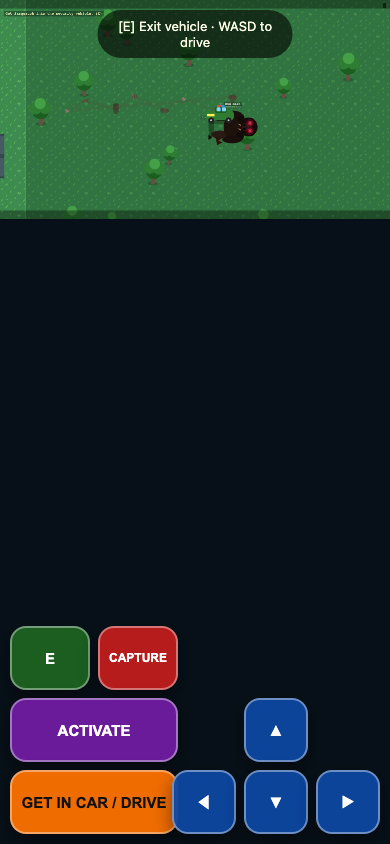
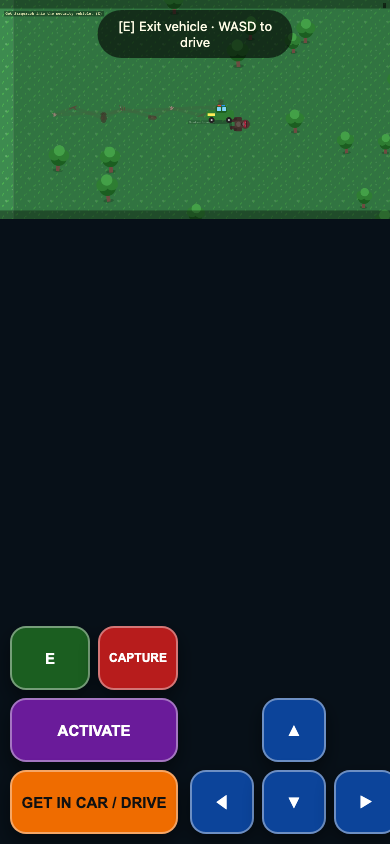
fix(v1.0.6): player-sized red-eye Sasquatch + capture always knocks him down

diff --git a/src/game/scenes/BootScene.ts b/src/game/scenes/BootScene.ts
@@ -127,98 +127,77 @@ export class BootScene extends Phaser.Scene {
   }
 
   private makeSasquatch(): void {
-    // Scary bigfoot walk sheet: 4 frames, 96x110 each
-    const fw = 96;
-    const fh = 110;
+    // Player-sized (64x64) walk sheet — 4 frames — cute/classic bigfoot + RED eyes
+    const fw = 64;
+    const fh = 64;
     const frames = 4;
     const sheet = this.make.graphics({ x: 0, y: 0 });
 
     const drawFrame = (g: Phaser.GameObjects.Graphics, ox: number, frame: number) => {
-      const stride = (frame % 2 === 0 ? -1 : 1) * (6 + frame);
-      const bob = frame % 2 === 0 ? 0 : -3;
-      const armSwing = (frame - 1.5) * 5;
+      const stride = (frame % 2 === 0 ? -1 : 1) * (3 + (frame % 2));
+      const bob = frame % 2 === 0 ? 0 : -2;
+      const arm = (frame - 1.5) * 3;
 
-      // ground shadow
-      g.fillStyle(0x000000, 0.35);
-      g.fillEllipse(ox + 48, fh - 8, 44, 12);
+      // shadow
+      g.fillStyle(0x000000, 0.28);
+      g.fillEllipse(ox + 32, fh - 4, 28, 8);
 
-      // back leg
-      g.fillStyle(0x2a1810, 1);
-      g.fillEllipse(ox + 34 + stride, fh - 28 + bob, 16, 34);
-      // front leg
-      g.fillStyle(0x3b2418, 1);
-      g.fillEllipse(ox + 58 - stride, fh - 26 + bob, 17, 36);
-      // claws on feet
-      g.fillStyle(0x1a0e08, 1);
-      g.fillTriangle(ox + 28 + stride, fh - 12, ox + 24 + stride, fh - 4, ox + 34 + stride, fh - 4);
-      g.fillTriangle(ox + 64 - stride, fh - 10, ox + 58 - stride, fh - 2, ox + 70 - stride, fh - 2);
+      // legs
+      g.fillStyle(0x5d4037, 1);
+      g.fillRoundedRect(ox + 20 + stride, 40 + bob, 9, 18, 3);
+      g.fillRoundedRect(ox + 35 - stride, 40 + bob, 9, 18, 3);
+      // feet
+      g.fillStyle(0x4e342e, 1);
+      g.fillEllipse(ox + 24 + stride, 58 + bob, 12, 7);
+      g.fillEllipse(ox + 40 - stride, 58 + bob, 12, 7);
 
-      // massive hunched torso
-      g.fillStyle(0x2c1810, 1);
-      g.fillEllipse(ox + 48, 52 + bob, 54, 48);
-      // fur tufts
-      g.fillStyle(0x1a0f0a, 1);
-      g.fillCircle(ox + 28, 40 + bob, 8);
-      g.fillCircle(ox + 68, 42 + bob, 9);
-      g.fillCircle(ox + 48, 30 + bob, 10);
+      // body (furry)
+      g.fillStyle(0x6d4c41, 1);
+      g.fillRoundedRect(ox + 16, 24 + bob, 32, 24, 8);
+      // belly
+      g.fillStyle(0x8d6e63, 1);
+      g.fillEllipse(ox + 32, 36 + bob, 16, 14);
 
-      // long arms + claws
-      g.fillStyle(0x24150e, 1);
-      g.fillEllipse(ox + 14 - armSwing, 58 + bob, 16, 42);
-      g.fillEllipse(ox + 82 + armSwing, 58 + bob, 16, 42);
-      g.fillStyle(0x4a1510, 1);
-      // left claws
-      g.fillTriangle(ox + 8 - armSwing, 78 + bob, ox + 2 - armSwing, 90 + bob, ox + 12 - armSwing, 88 + bob);
-      g.fillTriangle(ox + 14 - armSwing, 80 + bob, ox + 10 - armSwing, 94 + bob, ox + 18 - armSwing, 90 + bob);
-      // right claws
-      g.fillTriangle(ox + 88 + armSwing, 78 + bob, ox + 82 + armSwing, 92 + bob, ox + 94 + armSwing, 90 + bob);
-      g.fillTriangle(ox + 80 + armSwing, 80 + bob, ox + 76 + armSwing, 94 + bob, ox + 86 + armSwing, 90 + bob);
+      // arms
+      g.fillStyle(0x5d4037, 1);
+      g.fillRoundedRect(ox + 6 - arm, 26 + bob, 12, 20, 4);
+      g.fillRoundedRect(ox + 46 + arm, 26 + bob, 12, 20, 4);
+      // hands
+      g.fillStyle(0x4e342e, 1);
+      g.fillCircle(ox + 12 - arm, 46 + bob, 5);
+      g.fillCircle(ox + 52 + arm, 46 + bob, 5);
 
-      // head — ape-like, heavy brow
-      g.fillStyle(0x1f120c, 1);
-      g.fillCircle(ox + 48, 24 + bob, 20);
-      // brow ridge
-      g.fillStyle(0x140c08, 1);
-      g.fillEllipse(ox + 48, 16 + bob, 38, 14);
-      // snout
-      g.fillStyle(0x3a2218, 1);
-      g.fillEllipse(ox + 48, 30 + bob, 18, 14);
-      // nostrils
-      g.fillStyle(0x0a0503, 1);
-      g.fillCircle(ox + 44, 32 + bob, 2.5);
-      g.fillCircle(ox + 52, 32 + bob, 2.5);
-      // glowing red eyes
+      // head
+      g.fillStyle(0x6d4c41, 1);
+      g.fillCircle(ox + 32, 16 + bob, 14);
+      // face
+      g.fillStyle(0xa1887f, 1);
+      g.fillEllipse(ox + 32, 18 + bob, 14, 12);
+      // RED EYES (requested)
       g.fillStyle(0xff1744, 1);
-      g.fillCircle(ox + 40, 20 + bob, 5);
-      g.fillCircle(ox + 56, 20 + bob, 5);
-      g.fillStyle(0xff8a80, 0.9);
-      g.fillCircle(ox + 40, 20 + bob, 2);
-      g.fillCircle(ox + 56, 20 + bob, 2);
-      // eye glow bloom
-      g.fillStyle(0xff1744, 0.25);
-      g.fillCircle(ox + 40, 20 + bob, 9);
-      g.fillCircle(ox + 56, 20 + bob, 9);
-      // grim mouth
-      g.lineStyle(3, 0x4a0000, 1);
+      g.fillCircle(ox + 27, 15 + bob, 4);
+      g.fillCircle(ox + 37, 15 + bob, 4);
+      g.fillStyle(0xff8a80, 1);
+      g.fillCircle(ox + 27, 15 + bob, 1.6);
+      g.fillCircle(ox + 37, 15 + bob, 1.6);
+      // glow
+      g.fillStyle(0xff1744, 0.22);
+      g.fillCircle(ox + 27, 15 + bob, 7);
+      g.fillCircle(ox + 37, 15 + bob, 7);
+      // brow
+      g.fillStyle(0x4e342e, 1);
+      g.fillRect(ox + 22, 10 + bob, 20, 3);
+      // smile (slightly friendlier but still wild)
+      g.lineStyle(2, 0x3e2723, 1);
       g.beginPath();
-      g.moveTo(ox + 40, 38 + bob);
-      g.lineTo(ox + 44, 42 + bob);
-      g.lineTo(ox + 48, 40 + bob);
-      g.lineTo(ox + 52, 42 + bob);
-      g.lineTo(ox + 56, 38 + bob);
+      g.arc(ox + 32, 22 + bob, 5, 0.15 * Math.PI, 0.85 * Math.PI, false);
       g.strokePath();
-      // fangs
-      g.fillStyle(0xffe0b2, 1);
-      g.fillTriangle(ox + 43, 40 + bob, ox + 41, 46 + bob, ox + 46, 40 + bob);
-      g.fillTriangle(ox + 53, 40 + bob, ox + 50, 46 + bob, ox + 56, 40 + bob);
     };
 
-    for (let i = 0; i < frames; i++) {
-      drawFrame(sheet, i * fw, i);
-    }
+    for (let i = 0; i < frames; i++) drawFrame(sheet, i * fw, i);
     sheet.generateTexture('sasquatch_sheet_img', fw * frames, fh);
     sheet.destroy();
-    // Convert strip image into a real spritesheet
+
     const srcImg = this.textures.get('sasquatch_sheet_img').getSourceImage() as HTMLImageElement | HTMLCanvasElement;
     if (this.textures.exists('sasquatch_sheet')) this.textures.remove('sasquatch_sheet');
     this.textures.addSpriteSheet('sasquatch_sheet', srcImg as HTMLImageElement, {
@@ -226,26 +205,26 @@ export class BootScene extends Phaser.Scene {
       frameHeight: fh,
     });
 
-    // Legacy single-frame texture for jail / static uses
     const one = this.make.graphics({ x: 0, y: 0 });
     drawFrame(one, 0, 0);
     one.generateTexture('sasquatch', fw, fh);
     one.destroy();
 
-    if (!this.anims.exists('sasquatch-walk')) {
-      this.anims.create({
-        key: 'sasquatch-walk',
-        frames: this.anims.generateFrameNumbers('sasquatch_sheet', { start: 0, end: 3 }),
-        frameRate: 8,
-        repeat: -1,
-      });
-      this.anims.create({
-        key: 'sasquatch-idle',
-        frames: [{ key: 'sasquatch_sheet', frame: 0 }],
-        frameRate: 1,
-        repeat: -1,
-      });
-    }
+    if (this.anims.exists('sasquatch-walk')) this.anims.remove('sasquatch-walk');
+    if (this.anims.exists('sasquatch-idle')) this.anims.remove('sasquatch-idle');
+    if (this.anims.exists('sasquatch-down')) this.anims.remove('sasquatch-down');
+    this.anims.create({
+      key: 'sasquatch-walk',
+      frames: this.anims.generateFrameNumbers('sasquatch_sheet', { start: 0, end: 3 }),
+      frameRate: 8,
+      repeat: -1,
+    });
+    this.anims.create({
+      key: 'sasquatch-idle',
+      frames: [{ key: 'sasquatch_sheet', frame: 0 }],
+      frameRate: 1,
+      repeat: -1,
+    });
   }
 
   private makeVehicle(): void {

diff --git a/src/game/scenes/GameScene.ts b/src/game/scenes/GameScene.ts
@@ -130,7 +130,7 @@ export class GameScene extends Phaser.Scene {
       'sasquatch_sheet',
       0,
     );
-    this.sasquatch.setDepth(9).setCollideWorldBounds(true).setScale(1.35);
+    this.sasquatch.setDepth(9).setCollideWorldBounds(true).setScale(0.95); // same size as player
     this.sasquatch.play('sasquatch-idle');
     this.pickSasquatchWander();
     // Seed trail immediately so player never starts with empty trail
@@ -1227,8 +1227,13 @@ export class GameScene extends Phaser.Scene {
     const sasqNear =
       this.flags.sasquatchCaptured &&
       Phaser.Math.Distance.Between(this.player.x, this.player.y, this.sasquatch.x, this.sasquatch.y) < 160;
-    if (sasqNear) {
+    if (sasqNear || this.flags.sasquatchCaptured) {
       this.flags.sasquatchInVehicle = true;
+      this.flags.sasquatchCaptured = true;
+      this.sasquatch.setAngle(0);
+      this.sasquatch.clearTint();
+      const body = this.sasquatch.body as Phaser.Physics.Arcade.Body | undefined;
+      if (body) body.enable = true;
       this.setPhase(MissionPhase.Transporting);
       this.statusLine = 'Sasquatch loaded! Drive to SUPER JAIL.';
     } else if (this.flags.sasquatchCaptured && !allowWithoutSasq) {
@@ -1286,38 +1291,58 @@ export class GameScene extends Phaser.Scene {
     if (this.flags.inJailBuilding) this.exitJail();
     // Always re-seat into car so DRIVE works even if state was weird
     this.player.setPosition(this.vehicle.x, this.vehicle.y);
+    // If Sasquatch is already DOWN anywhere, pull him in
+    if (this.flags.sasquatchCaptured) {
+      this.sasquatch.setPosition(this.player.x - 28, this.player.y);
+      this.sasquatch.setAngle(0);
+      this.sasquatch.clearTint();
+      const b = this.sasquatch.body as Phaser.Physics.Arcade.Body | undefined;
+      if (b) b.enable = true;
+      this.flags.sasquatchInVehicle = true;
+    }
     this.enterVehicle(true);
     this.player.setVelocity(480, 0);
-    this.statusLine = 'DRIVING — hold D-pad ▲◀▼▶ (or WASD)';
+    this.statusLine = this.flags.sasquatchInVehicle
+      ? 'Sasquatch in car — DRIVE to SUPER JAIL!'
+      : 'DRIVING — hold D-pad to steer';
     setDomStatus(this.statusLine);
   }
 
   private tryCapture(): void {
+    setDomStatus('CAPTURE pressed…');
     if (this.flags.sasquatchCaptured || this.flags.sasquatchJailed) {
-      setDomStatus('Already captured — load into the CAR!');
+      setDomStatus('Already DOWN — tap GET IN CAR!');
       return;
     }
     if (!this.flags.hasTracker) {
-      this.statusLine = 'Need Tracker first — tap ACTIVATE!';
+      this.statusLine = 'Need Tracker first — tap ACTIVATE twice!';
       setDomStatus(this.statusLine);
       return;
     }
-    // Exit car briefly if needed so capture feels close-range on foot/vehicle
-    const d = Phaser.Math.Distance.Between(
+    // If still in lair, get outside first
+    if (this.flags.inLair) this.exitLair();
+
+    let d = Phaser.Math.Distance.Between(
       this.player.x,
       this.player.y,
       this.sasquatch.x,
       this.sasquatch.y,
     );
-    // Big hitbox — scary sasquatch is large; phone aiming is hard
-    const range = this.flags.inVehicle ? 220 : 190;
+    const range = 500; // very forgiving on phone
     if (d > range) {
-      this.statusLine = `Too far (${Math.round(d)}) — get closer then hit CAP!`;
+      // Pull player toward sasquatch a bit so capture isn't impossible
+      this.statusLine = `Too far (${Math.round(d)}) — driving/running closer…`;
       setDomStatus(this.statusLine);
-      audio.beep?.(180, 0.08, 'square', 0.03);
-      // soft fail beep via audio system
-      try { audio.talk(); } catch { /* ignore */ }
-      return;
+      // Soft assist: if within 900px, snap nearer then knock down
+      if (d < 900) {
+        const ang = Phaser.Math.Angle.Between(this.player.x, this.player.y, this.sasquatch.x, this.sasquatch.y);
+        this.player.x = this.sasquatch.x - Math.cos(ang) * 80;
+        this.player.y = this.sasquatch.y - Math.sin(ang) * 80;
+        d = Phaser.Math.Distance.Between(this.player.x, this.player.y, this.sasquatch.x, this.sasquatch.y);
+      } else {
+        try { audio.talk(); } catch { /* ignore */ }
+        return;
+      }
     }
     this.knockDownSasquatch();
   }
